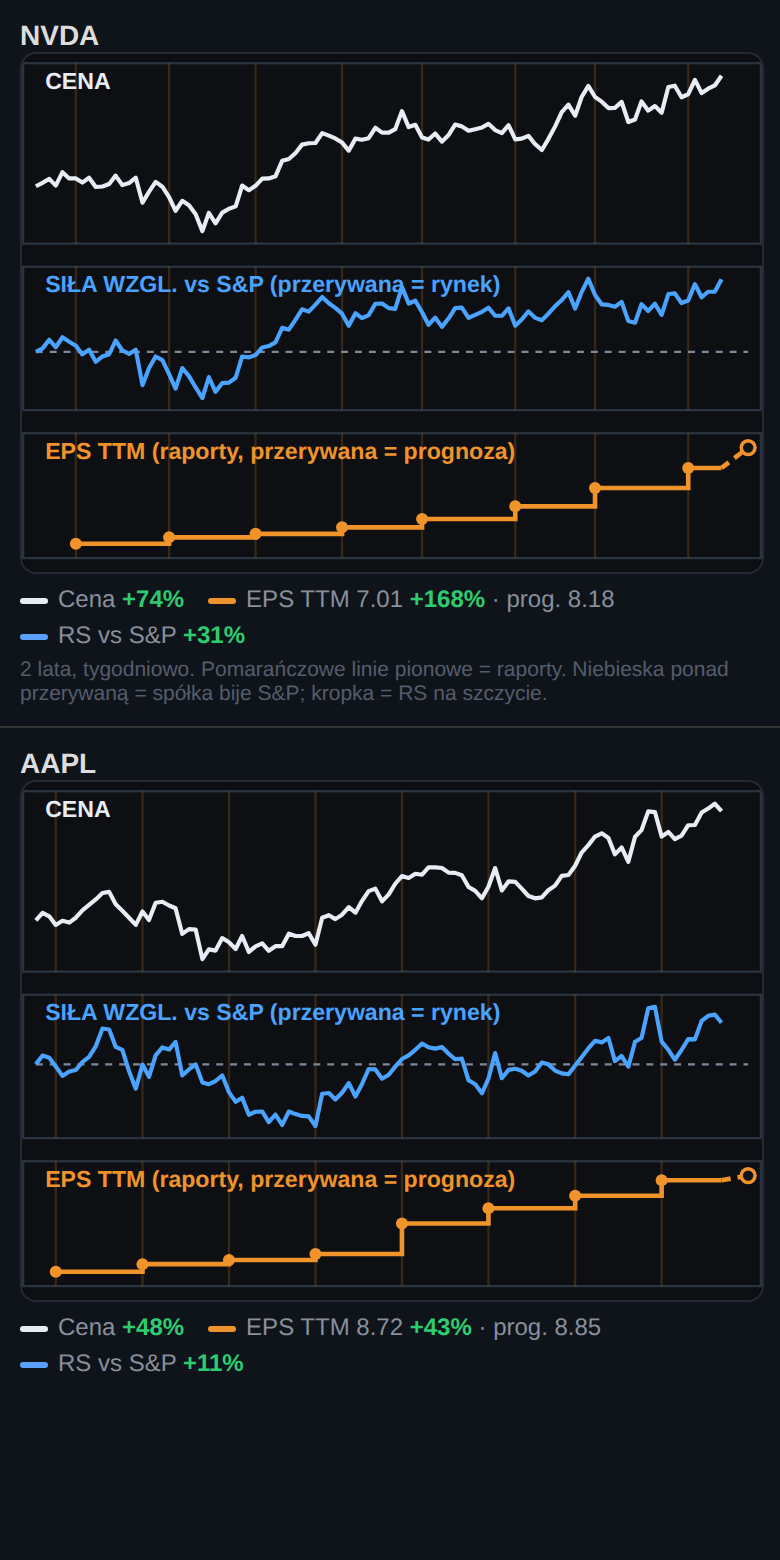
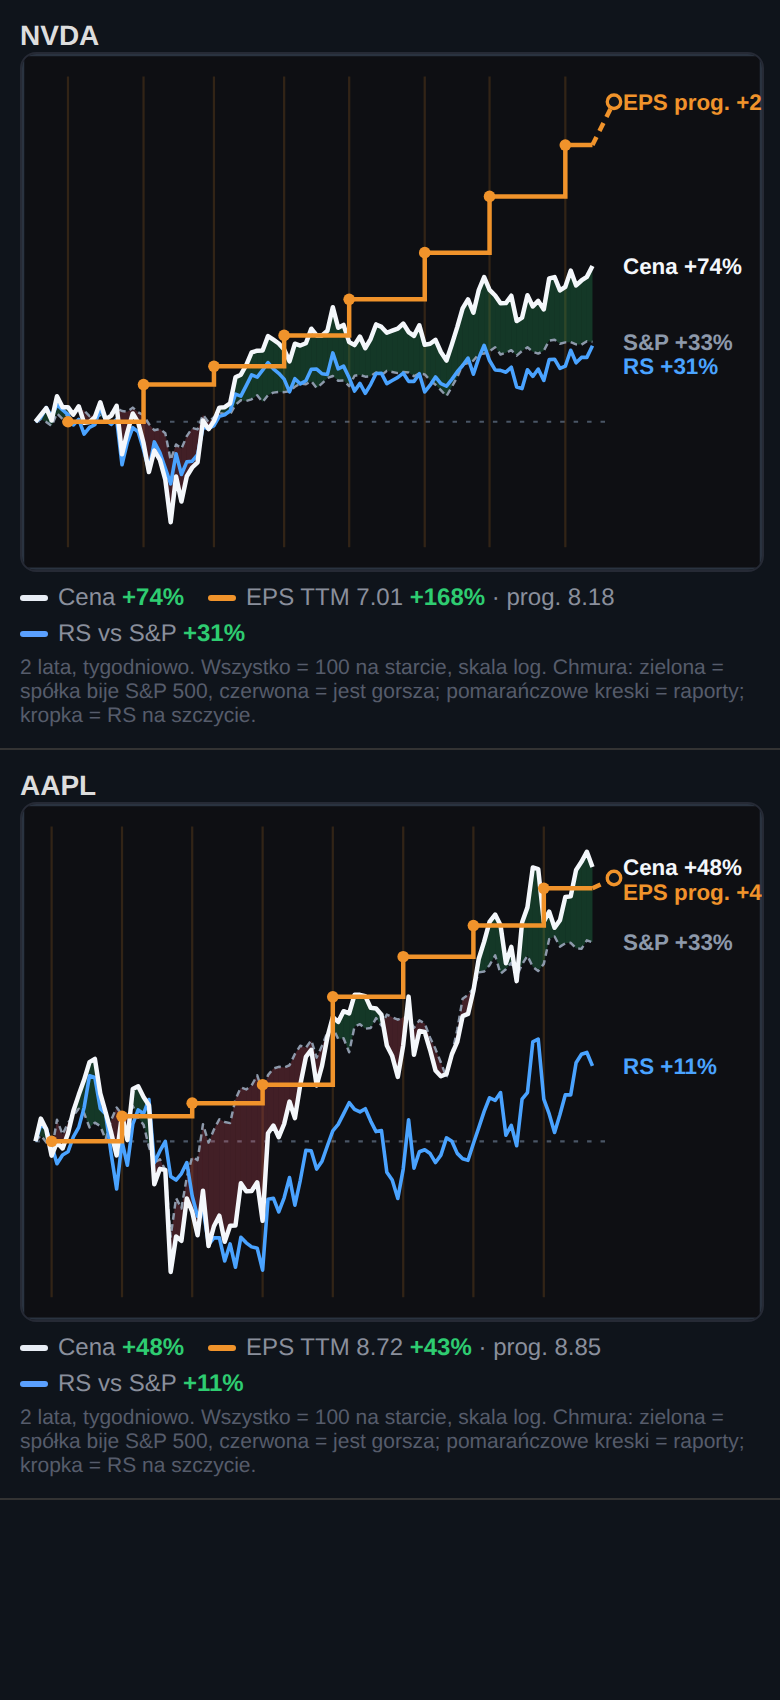
Fund mini chart: one Ichimoku-style chart (rebased series on a log axis, price vs S&P cloud)
Claude-Session: https://claude.ai/code/session_01XxVJn4hUZZHVpmyRmwsrGL

diff --git a/docs/js/chart.js b/docs/js/chart.js
@@ -1084,12 +1084,82 @@ function fundMiniModel(charts, ticker) {
     const first = a => a.find(Number.isFinite), last = a => [...a].reverse().find(Number.isFinite);
     const chg = (a, b) => (Number.isFinite(a) && Number.isFinite(b) && a > 0 ? (b / a - 1) * 100 : null);
     return {
-        n, price, rs, eps, next,
+        n, price, rs, eps, next, spx: spx ? spx.map(v => (Number.isFinite(v) ? v : null)) : price.map(() => null),
         priceChg: chg(first(price), last(price)), rsChg: chg(first(rs), last(rs)),
         epsChg: eps.length >= 2 ? chg(eps[0].v, eps[eps.length - 1].v) : null,
         epsLast: eps.length ? eps[eps.length - 1].v : null,
         rsHigh: rsAtHigh(rs),
     };
+}
+
+// Jeden wykres w stylu Ichimoku: wszystkie serie na JEDNEJ osi (skala logarytmiczna), każda przeskalowana do 100 na początku okna,
+// więc nachylenia są porównywalne. Cena (biała), S&P 500 (szara), RS = cena / S&P (niebieska), EPS TTM (pomarańczowe schodki).
+// „Chmura” między ceną a S&P: zielona, gdy spółka bije rynek, czerwona, gdy jest gorsza. Pionowe kreski = daty raportów.
+function fundMiniSvg(m, opts = {}) {
+    const W = opts.width || 330, H = opts.height || 230, padL = 6, padR = 66, padT = 10, padB = 10;
+    const slots = m.n + (m.next !== null ? 4 : 0);
+    const x = i => padL + (W - padL - padR) * i / Math.max(1, slots - 1);
+    const rebase = arr => { const b = arr.find(v => Number.isFinite(v) && v > 0); return arr.map(v => (b && Number.isFinite(v) && v > 0 ? v / b * 100 : null)); };
+    const price = rebase(m.price), spx = rebase(m.spx), rs = rebase(m.rs);
+    // EPS: baza = pierwszy dodatni TTM (przy ujemnym nie da się policzyć zmiany względnej — wtedy bez linii EPS)
+    const eb = (m.eps.find(e => e.v > 0) || {}).v;
+    const eps = eb ? m.eps.filter(e => e.v > 0).map(e => ({ i: e.i, v: e.v / eb * 100 })) : [];
+    const epsNext = eb && m.next !== null && m.next > 0 ? m.next / eb * 100 : null;
+    const all = [price, spx, rs].flatMap(a => a.filter(Number.isFinite)).concat(eps.map(e => e.v), epsNext !== null ? [epsNext] : [], [100]);
+    const lo = Math.log(Math.min(...all)), hi = Math.log(Math.max(...all)), pad = (hi - lo) * 0.06 || 0.1;
+    const y = v => padT + (H - padT - padB) * (1 - (Math.log(v) - (lo - pad)) / ((hi + pad) - (lo - pad)));
+    const parts = [];
+    parts.push(`<rect x="0.5" y="0.5" width="${W - 1}" height="${H - 1}" fill="none" stroke="#2a3340"/>`);
+    parts.push(`<line x1="${padL}" y1="${y(100).toFixed(1)}" x2="${W - padR}" y2="${y(100).toFixed(1)}" stroke="#4a5666" stroke-width="1" stroke-dasharray="2 4"/>`);
+    m.eps.forEach(e => parts.push(`<line x1="${x(e.i).toFixed(1)}" y1="${padT}" x2="${x(e.i).toFixed(1)}" y2="${H - padB}" stroke="#f0932b" stroke-opacity=".16"/>`));
+    // chmura cena vs S&P: segment po segmencie, z rozcięciem w miejscu przecięcia
+    const cloud = [];
+    for (let i = 1; i < m.n; i++) {
+        const p0 = price[i - 1], p1 = price[i], s0 = spx[i - 1], s1 = spx[i];
+        if (![p0, p1, s0, s1].every(Number.isFinite)) continue;
+        const d0 = p0 - s0, d1 = p1 - s1, quad = (xa, xb, pa, pb, sa, sb, col) => cloud.push(`<polygon fill="${col}" points="${[[xa, pa], [xb, pb], [xb, sb], [xa, sa]].map(q => q[0].toFixed(1) + "," + y(q[1]).toFixed(1)).join(" ")}"/>`);
+        const G = "rgba(46,204,113,.22)", R = "rgba(255,90,110,.22)";
+        if (d0 * d1 >= 0) quad(x(i - 1), x(i), p0, p1, s0, s1, (d0 + d1) >= 0 ? G : R);
+        else {
+            const t = d0 / (d0 - d1), xc = x(i - 1) + (x(i) - x(i - 1)) * t, yc = p0 + (p1 - p0) * t;
+            quad(x(i - 1), xc, p0, yc, s0, yc, d0 >= 0 ? G : R);
+            quad(xc, x(i), yc, p1, yc, s1, d1 >= 0 ? G : R);
+        }
+    }
+    parts.push(cloud.join(""));
+    const line = (arr, color, w, dash = "") => parts.push(`<polyline fill="none" stroke="${color}" stroke-width="${w}" stroke-linejoin="round" ${dash ? `stroke-dasharray="${dash}"` : ""} points="${linePoints(arr, x, y)}"/>`);
+    line(spx, "#8d99ab", 1.1, "3 2");
+    line(rs, "#4aa3ff", 1.6);
+    line(price, "#f4f7fb", 2);
+    const ends = [];
+    if (eps.length) {
+        const pts = [];
+        eps.forEach((e, k) => { if (k) pts.push([x(e.i), y(eps[k - 1].v)]); pts.push([x(e.i), y(e.v)]); });
+        const lp = pts[pts.length - 1];
+        pts.push([x(m.n - 1), lp[1]]);
+        parts.push(`<polyline fill="none" stroke="#f0932b" stroke-width="2" points="${pts.map(q => q[0].toFixed(1) + "," + q[1].toFixed(1)).join(" ")}"/>`);
+        eps.forEach(e => parts.push(`<circle cx="${x(e.i).toFixed(1)}" cy="${y(e.v).toFixed(1)}" r="2.6" fill="#f0932b"/>`));
+        let lastV = eps[eps.length - 1].v, xe = x(m.n - 1);
+        if (epsNext !== null) {
+            xe = x(slots - 1);
+            parts.push(`<line x1="${x(m.n - 1).toFixed(1)}" y1="${lp[1].toFixed(1)}" x2="${xe.toFixed(1)}" y2="${y(epsNext).toFixed(1)}" stroke="#f0932b" stroke-width="2" stroke-dasharray="4 3"/>`);
+            parts.push(`<circle cx="${xe.toFixed(1)}" cy="${y(epsNext).toFixed(1)}" r="3" fill="#0f141b" stroke="#f0932b" stroke-width="1.5"/>`);
+            lastV = epsNext;
+        }
+        ends.push({ v: lastV, text: epsNext !== null ? "EPS prog." : "EPS", col: "#f0932b" });
+    }
+    const lastOf = a => [...a].reverse().find(Number.isFinite);
+    [[price, "Cena", "#f4f7fb"], [rs, "RS", "#4aa3ff"], [spx, "S&P", "#8d99ab"]].forEach(([a, t, col]) => { const v = lastOf(a); if (Number.isFinite(v)) ends.push({ v, text: t, col }); });
+    // podpisy na prawym końcu (zmiana % od początku okna), rozsunięte, żeby się nie nakładały
+    ends.sort((a, b) => y(a.v) - y(b.v));
+    let prev = -Infinity;
+    ends.forEach(e => { e.y = Math.max(y(e.v), prev + 11); prev = e.y; });
+    ends.forEach(e => {
+        const ch = e.v - 100;
+        parts.push(`<text x="${W - padR + 4}" y="${(e.y + 3.5).toFixed(1)}" font-size="10" font-weight="700" fill="${e.col}">${e.text} ${ch >= 0 ? "+" : ""}${ch.toFixed(0)}%</text>`);
+    });
+    if (m.rsHigh) parts.push(`<circle cx="${x(m.rsHigh).toFixed(1)}" cy="${y(rs[m.rsHigh]).toFixed(1)}" r="3.2" fill="#4aa3ff" stroke="#fff" stroke-width="1"/>`);
+    return `<svg class="fund-mini-svg" viewBox="0 0 ${W} ${H}" role="img" aria-label="Cena, S&amp;P 500, siła względna i EPS na jednym wykresie">${parts.join("")}</svg>`;
 }
 
 // indeks ostatniego tygodnia (z 5 ostatnich), w którym RS jest na maksimum całego okna; null gdy RS nie jest przy szczycie
@@ -1099,56 +1169,6 @@ function rsAtHigh(rs) {
     const max = Math.max(...f);
     for (let i = rs.length - 1; i >= rs.length - 5; i--) if (rs[i] === max) return i;
     return null;
-}
-
-function fundMiniSvg(m, opts = {}) {
-    // Trzy panele jedno pod drugim na wspólnej osi czasu: cena, RS (spółka / S&P 500 przeskalowane do 100 na starcie,
-    // przerywana = parytet z rynkiem) i EPS TTM jako schodki (zysk trzyma wartość do następnego raportu).
-    const W = opts.width || 320, padL = 6, padR = 6;
-    const panels = [{ y: 4, h: 78 }, { y: 92, h: 62 }, { y: 164, h: 54 }];
-    const H = 224, slots = m.n + (m.next !== null ? 4 : 0);
-    const x = i => padL + (W - padL - padR) * i / Math.max(1, slots - 1);
-    const yOf = (pn, vals, pad = 0.08, include = []) => {
-        const f = vals.filter(Number.isFinite).concat(include);
-        const lo = Math.min(...f), hi = Math.max(...f), span = (hi - lo) || Math.abs(hi) || 1;
-        const a = lo - span * pad, bb = hi + span * pad;
-        return v => pn.y + pn.h * (1 - (v - a) / (bb - a));
-    };
-    const parts = [];
-    panels.forEach(pn => parts.push(`<rect x="0.5" y="${pn.y}" width="${W - 1}" height="${pn.h}" fill="none" stroke="#2a3340" stroke-width="1"/>`));
-    // pionowe linie dat raportów — widać, jak cena i RS reagowały na wyniki
-    m.eps.forEach(e => panels.forEach(pn => parts.push(`<line x1="${x(e.i).toFixed(1)}" y1="${pn.y}" x2="${x(e.i).toFixed(1)}" y2="${pn.y + pn.h}" stroke="#f0932b" stroke-opacity=".18" stroke-width="1"/>`)));
-    const tag = (pn, text, color) => parts.push(`<text x="${padL + 4}" y="${pn.y + 11}" font-size="10" fill="${color}" font-weight="700">${text}</text>`);
-    const line = (arr, y, color, w) => parts.push(`<polyline fill="none" stroke="${color}" stroke-width="${w}" stroke-linejoin="round" points="${linePoints(arr, x, y)}"/>`);
-    // 1. cena
-    const yP = yOf(panels[0], m.price);
-    line(m.price, yP, "#e8edf5", 1.8);
-    tag(panels[0], "CENA", "#e8edf5");
-    // 2. RS przeskalowane do 100 na początku
-    const rs0 = m.rs.find(Number.isFinite), rsN = m.rs.map(v => (Number.isFinite(v) && rs0 ? v / rs0 * 100 : null));
-    const yR = yOf(panels[1], rsN, 0.1, [100]);
-    parts.push(`<line x1="${padL}" y1="${yR(100).toFixed(1)}" x2="${W - padR}" y2="${yR(100).toFixed(1)}" stroke="#7d8a9c" stroke-width="1" stroke-dasharray="3 3"/>`);
-    const rsLast = [...rsN].reverse().find(Number.isFinite);
-    line(rsN, yR, Number.isFinite(rsLast) && rsLast >= 100 ? "#4aa3ff" : "#ff7b8d", 1.8);
-    tag(panels[1], "SIŁA WZGL. vs S&amp;P (przerywana = rynek)", "#4aa3ff");
-    if (m.rsHigh) parts.push(`<circle cx="${x(m.rsHigh).toFixed(1)}" cy="${yR(rsN[m.rsHigh]).toFixed(1)}" r="3.2" fill="#4aa3ff" stroke="#fff" stroke-width="1"/>`);
-    // 3. EPS TTM — schodki
-    if (m.eps.length) {
-        const yE = yOf(panels[2], m.eps.map(e => e.v).concat(m.next !== null ? [m.next] : []), 0.15);
-        const pts = [];
-        m.eps.forEach((e, k) => { if (k) pts.push([x(e.i), yE(m.eps[k - 1].v)]); pts.push([x(e.i), yE(e.v)]); });
-        const lp = pts[pts.length - 1];
-        pts.push([x(m.n - 1), lp[1]]);
-        parts.push(`<polyline fill="none" stroke="#f0932b" stroke-width="2" points="${pts.map(q => q[0].toFixed(1) + "," + q[1].toFixed(1)).join(" ")}"/>`);
-        m.eps.forEach(e => parts.push(`<circle cx="${x(e.i).toFixed(1)}" cy="${yE(e.v).toFixed(1)}" r="2.6" fill="#f0932b"/>`));
-        if (m.next !== null) {
-            const nx = x(slots - 1), ny = yE(m.next);
-            parts.push(`<line x1="${x(m.n - 1).toFixed(1)}" y1="${lp[1].toFixed(1)}" x2="${nx.toFixed(1)}" y2="${ny.toFixed(1)}" stroke="#f0932b" stroke-width="2" stroke-dasharray="4 3"/>`);
-            parts.push(`<circle cx="${nx.toFixed(1)}" cy="${ny.toFixed(1)}" r="3" fill="#0f141b" stroke="#f0932b" stroke-width="1.5"/>`);
-        }
-    }
-    tag(panels[2], "EPS TTM (raporty, przerywana = prognoza)", "#f0932b");
-    return `<svg class="fund-mini-svg" viewBox="0 0 ${W} ${H}" role="img" aria-label="Cena, siła względna i EPS">${parts.join("")}</svg>`;
 }
 
 function linePoints(arr, x, y) {
@@ -1164,7 +1184,7 @@ function fundMiniHtml(m) {
         `<span class="fm-eps">EPS TTM ${m.epsLast !== null ? m.epsLast.toFixed(2) : "—"} <b class="${cls(m.epsChg)}">${sg(m.epsChg)}</b>${m.next !== null ? ` · prog. ${m.next.toFixed(2)}` : ""}</span>`,
         `<span class="fm-rs">RS vs S&amp;P <b class="${cls(m.rsChg)}">${sg(m.rsChg)}</b></span>`,
     ].join("");
-    return `${fundMiniSvg(m)}<div class="fund-mini-legend">${legend}</div><div class="fund-mini-note">2 lata, tygodniowo. Pomarańczowe linie pionowe = raporty. Niebieska ponad przerywaną = spółka bije S&amp;P; kropka = RS na szczycie.</div>`;
+    return `${fundMiniSvg(m)}<div class="fund-mini-legend">${legend}</div><div class="fund-mini-note">2 lata, tygodniowo. Wszystko = 100 na starcie, skala log. Chmura: zielona = spółka bije S&amp;P 500, czerwona = jest gorsza; pomarańczowe kreski = raporty; kropka = RS na szczycie.</div>`;
 }
 
 if (typeof module !== "undefined" && module.exports) {

diff --git a/CLAUDE.md b/CLAUDE.md
@@ -112,7 +112,7 @@ Run it: `python watchlist.py` (`--skip-finviz` reuses the previous list and only
   (`opts.compact`: narrower viewBox 560×740, fonts ×1.5, only the last 52 weeks via `sliceModel`, header split into two
   rows; re-rendered on rotation) so the chart stays readable instead of being a shrunken desktop chart.
   **Phone UX patterns** (`body:not(.split)`): fixed **bottom navigation** (`#bottomNav`: Lista, Wybicia, Pozycje, Alerty + `☰ Więcej`; `BOTTOM_NAV_TABS`; the top tab strip is hidden there and the tab title `h2` is shown instead; `initBottomNav`; alert count badge `#alertBadgeNav`); **bottom sheets** (`showSheet`/`closeSheet` in qol.js: dimmed backdrop, grip, close by backdrop / Esc / dragging the header down, `.sheet-*` CSS) used for `Więcej` (Filtry, Ratingi, Qullamaggie, Bazy, Ulubione, EP, refresh), the chart's `⋯` options (`openChartMore`: full screen, estimates, legend, scale, Finviz, Zacks, score — these header buttons carry the class `sec-btn` and are hidden on phones) and the position form; the chart header keeps only Linia / Cup / 💼 Pozycja / timeframe / ⋯ (timeframe label shortened to "Dzienny"/"Tygodniowy" when not `splitMode`); while editing, `.wl-chart-box.is-editing` hides the stats / pattern / estimates and the toolbar becomes a compact button grid (the Typ/Alert/Przedłużenie fields and the stock note are reachable through the line menu / not shown); touch targets ≥ 44 px on coarse pointers; the card sort bar is sticky; empty chips (`td:empty`) are hidden in cards. Hints in the toolbar differ for coarse pointers.
-  **Phone/narrow screens (`!splitMode`, CSS `body:not(.split)`): the table is shown as CARDS** (no horizontal scroll): every `<td>` gets `data-label` and a class `c-<columnId>` (`decorateCell` in `renderRow`); CSS keeps star, ticker, Score, company, price and the rating/upside/status chips visible, hides the thead and shows the remaining fields in two labelled columns when the card is expanded; **a tap anywhere on the card opens the full chart at once; only the `▾` button (`td.card-toggle`/`.card-chev`, column `toggle`) expands/collapses the details** (`openCards`, kept across re-renders; the old two-step "select the mini chart, tap again" was removed as too slow); the collapsed card has NO chart and the expanded one only a simple **fundamentals mini chart** (column `fchart`, `td.card-fchart`, filled lazily by `fillFundCharts` from charts.json; `fundMiniModel`/`fundMiniSvg`/`fundMiniHtml` in chart.js: 2 years weekly, THREE stacked panels on one time axis: price, RS = stock/S&P 500 rebased to 100 with a dashed parity line (blue above it, red below, dot = RS at its window high) and TTM EPS as a step line (dashed = forecast); orange verticals = report dates; legend with % change — RS used to share the price scale and looked like a copy of price, hence the split) so the user can see at a glance whether price, earnings and RS rise together; the collapsed and expanded cards have NO other chart any more (the 26-week trend thumbnail `thumb` and the 52-week mini chart `miniChartSvg` / `fillMiniCharts` were REMOVED at the user's request — he judged them unhelpful for technical assessment; the full chart opens on a tap); sorting on phones is the `Sortuj:` select + direction button (`#cardSortKey`/`#cardSortDir`, `updateCardSort`). `:where()` keeps the hide rule at zero specificity so the always-visible classes win, and `table[hidden]` needs its own rule because the card CSS sets `display:block`. **Rating colours** (`ratingClass`, `.rt-*` on RS/EPS/Composite cells in tables AND cards): ≥ 90 dark green, 80–89 green, 60–79 lime, 40–59 yellow, 20–39 orange, < 20 red.   **iPhone/PWA gestures:** there is NO pull-to-refresh any more (it was removed at the user's request: a pinch or a downward drag reloaded the page); instead `refreshDataIfStale` re-fetches `watchlist.json` (no-store) when the app comes back to the foreground after more than 10 minutes and swaps the data in place (re-renders the list, drops the charts/estimates cache, reopens the chart, toast "Dane odświeżone.") only when `generated_at` changed; on touch devices (`@media (hover:none) and (pointer:coarse)`) inputs are 16 px (smaller makes iOS auto-zoom on focus) and `touch-action: manipulation` removes double-tap zoom (the chart's double tap opens the add menu). Common search box + sector select; table headers sort (empty values always last); settings persist in
+  **Phone/narrow screens (`!splitMode`, CSS `body:not(.split)`): the table is shown as CARDS** (no horizontal scroll): every `<td>` gets `data-label` and a class `c-<columnId>` (`decorateCell` in `renderRow`); CSS keeps star, ticker, Score, company, price and the rating/upside/status chips visible, hides the thead and shows the remaining fields in two labelled columns when the card is expanded; **a tap anywhere on the card opens the full chart at once; only the `▾` button (`td.card-toggle`/`.card-chev`, column `toggle`) expands/collapses the details** (`openCards`, kept across re-renders; the old two-step "select the mini chart, tap again" was removed as too slow); the collapsed card has NO chart and the expanded one only a simple **fundamentals mini chart** (column `fchart`, `td.card-fchart`, filled lazily by `fillFundCharts` from charts.json; `fundMiniModel`/`fundMiniSvg`/`fundMiniHtml` in chart.js: 2 years weekly, ONE chart like Ichimoku (user: "na jednym wykresie jak ichimoku"): all series on a single log axis, each rebased to 100 at the window start so slopes are comparable — price (white), S&P 500 (grey dashed), RS = price/S&P (blue; dot = RS at its window high), TTM EPS (orange step line, dashed = forecast; baseline = first positive TTM) and a "cloud" between price and S&P (green = beating the market, red = lagging); orange verticals = report dates; end labels with % change; separate panels / separate min–max scales were tried and rejected: RS then looked like a copy of price) so the user can see at a glance whether price, earnings and RS rise together; the collapsed and expanded cards have NO other chart any more (the 26-week trend thumbnail `thumb` and the 52-week mini chart `miniChartSvg` / `fillMiniCharts` were REMOVED at the user's request — he judged them unhelpful for technical assessment; the full chart opens on a tap); sorting on phones is the `Sortuj:` select + direction button (`#cardSortKey`/`#cardSortDir`, `updateCardSort`). `:where()` keeps the hide rule at zero specificity so the always-visible classes win, and `table[hidden]` needs its own rule because the card CSS sets `display:block`. **Rating colours** (`ratingClass`, `.rt-*` on RS/EPS/Composite cells in tables AND cards): ≥ 90 dark green, 80–89 green, 60–79 lime, 40–59 yellow, 20–39 orange, < 20 red.   **iPhone/PWA gestures:** there is NO pull-to-refresh any more (it was removed at the user's request: a pinch or a downward drag reloaded the page); instead `refreshDataIfStale` re-fetches `watchlist.json` (no-store) when the app comes back to the foreground after more than 10 minutes and swaps the data in place (re-renders the list, drops the charts/estimates cache, reopens the chart, toast "Dane odświeżone.") only when `generated_at` changed; on touch devices (`@media (hover:none) and (pointer:coarse)`) inputs are 16 px (smaller makes iOS auto-zoom on focus) and `touch-action: manipulation` removes double-tap zoom (the chart's double tap opens the add menu). Common search box + sector select; table headers sort (empty values always last); settings persist in
   `localStorage` (`momentum_watchlist_settings`). Rows link out to TradingView (`tvUrlFor`) — there is no
   in-app chart any more. Pure logic is covered by `tests/js/watchlist.test.js`.
 - The top bar of `index.html` keeps only the brand text and the offline badge (`#connStatus`); the `Watchlist` / `EP` menu links were removed at the user's request (EP stays reachable from the phone `☰ Więcej` sheet and by URL).
